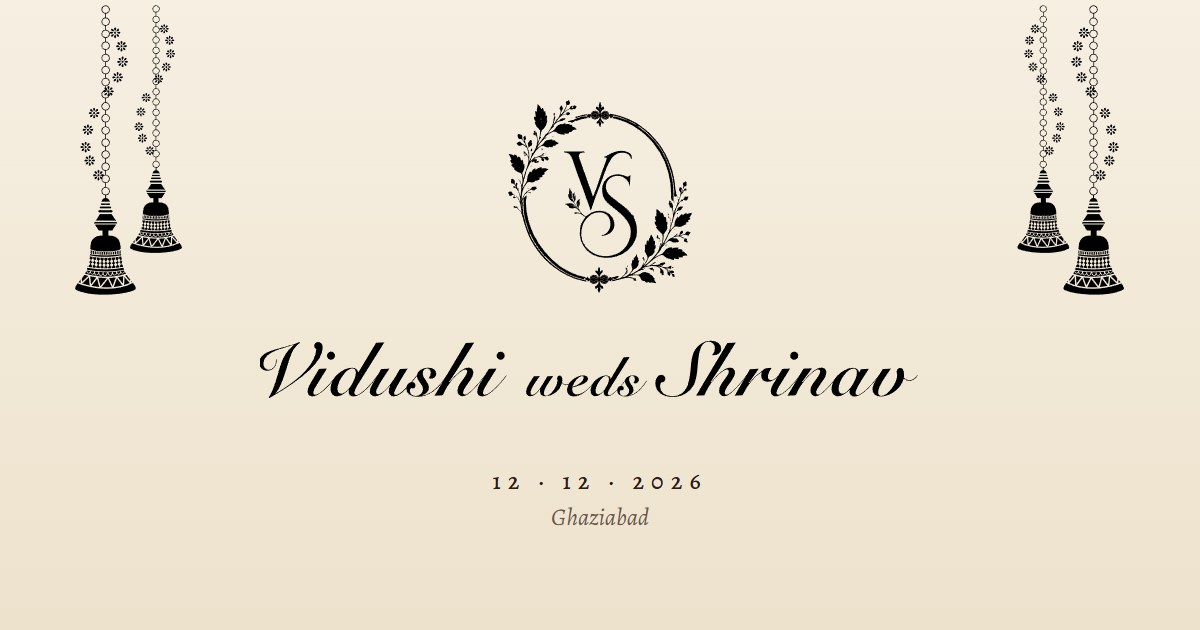
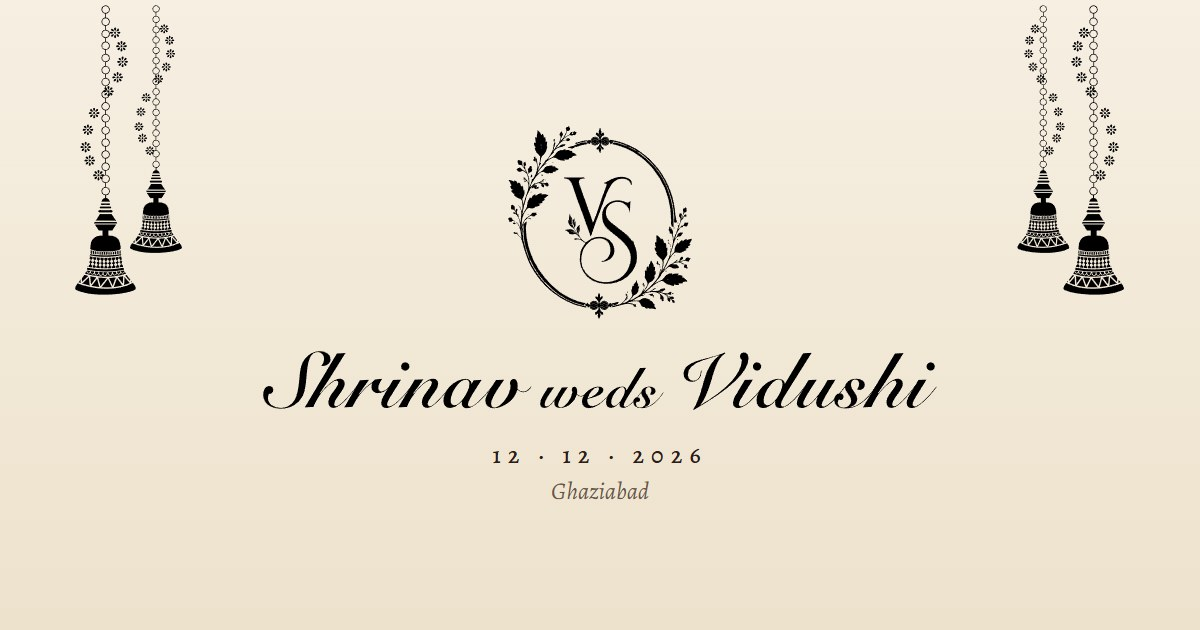
Switch to the groom's side: Rastogi family hosts, Shrinav weds Vidushi

diff --git a/index.html b/index.html
@@ -3,12 +3,12 @@
 <head>
 <meta charset="utf-8">
 <meta name="viewport" content="width=device-width, initial-scale=1, viewport-fit=cover">
-<title>Vidushi weds Shrinav</title>
+<title>Shrinav weds Vidushi</title>
 <meta name="robots" content="noindex, nofollow">
 <meta name="description" content="Saturday, 12th December 2026 · 8 pm onwards · Royal Heritage, Country Inn & Suites, Ghaziabad">
 <meta name="theme-color" content="#F6EFE2">
 <meta property="og:type" content="website">
-<meta property="og:title" content="Vidushi weds Shrinav">
+<meta property="og:title" content="Shrinav weds Vidushi">
 <meta property="og:description" content="Saturday, 12th December 2026 · 8 pm onwards · Ghaziabad">
 <meta property="og:image" content="https://rvishcametrue.us/assets/og.jpg">
 <meta property="og:image:width" content="1200">
@@ -64,8 +64,8 @@
     <div class="bell bell-r"><div class="bell-art"></div></div>
     <div class="hero-inner">
       <div class="art draw monogram" data-svg="monogram"></div>
-      <h1 class="sr-only">Vidushi weds Shrinav</h1>
-      <div class="art draw names" data-svg="names-script" aria-hidden="true"></div>
+      <h1 class="sr-only">Shrinav weds Vidushi</h1>
+      <div class="art draw names" data-svg="names-script-groom" aria-hidden="true"></div>
       <p class="hero-event" data-bind="title" hidden></p>
       <p class="hero-date" id="hero-date"></p>
       <p class="hero-place" data-bind="heroPlace"></p>
@@ -92,19 +92,19 @@
       <div class="frame-copy">
         <p class="hosts" data-reveal data-bind="hosts"></p>
         <p class="req" data-reveal data-bind="request"></p>
-        <h2 class="name" data-split data-bind="brideName"></h2>
-        <p class="parent" data-reveal data-bind="brideParents"></p>
+        <h2 class="name" data-split data-bind="firstName"></h2>
+        <p class="parent" data-reveal data-bind="firstParents"></p>
         <p class="with" data-reveal>with</p>
-        <h2 class="name" data-split data-bind="groomName"></h2>
-        <p class="parent" data-reveal data-bind="groomParents"></p>
+        <h2 class="name" data-split data-bind="secondName"></h2>
+        <p class="parent" data-reveal data-bind="secondParents"></p>
       </div>
     </div>
   </section>
 
   <section class="couple" id="couple">
     <figure class="portrait">
-      <div class="arch"><img id="couple-photo" alt="Vidushi and Shrinav" decoding="async"></div>
-      <figcaption><span class="who">Vidushi <i>&amp;</i> Shrinav</span></figcaption>
+      <div class="arch"><img id="couple-photo" alt="Shrinav and Vidushi" decoding="async"></div>
+      <figcaption><span class="who">Shrinav <i>&amp;</i> Vidushi</span></figcaption>
     </figure>
   </section>
 

diff --git a/events.js b/events.js
@@ -1,14 +1,15 @@
 /* One entry per invitation page. The key is the URL path: "wedding" is "/", others are "/haldi" etc.
    Pages never link to each other, so a guest only sees the events their link was sent for.
-   An event with live: false only renders on the local preview server; vercel.json must also
-   list a rewrite for the slug before it is reachable on the domain. */
+   An event with live: false only renders on the local preview server. After making one live,
+   run `python tools/build_pages.py` so its link preview shows the right title. */
 window.WEDDING = {
   supabaseUrl: "https://ddpubhkgcbcwncyeebzc.supabase.co",
   supabaseKey: "sb_publishable_Am-lHqCMq1ANCtyzlQidXg_9QJuhbNm",
-  hosts: "Smt. Daisy & Sh. Shiva Prakash Vatsa",
-  bride: { name: "Vidushi Vatsa", parents: "D/o Rachna & Supriyam Vatsa" },
-  groom: { name: "Shrinav Rastogi", parents: "S/o Richa & Naveen Rastogi" },
-  family: "Vatsa Family",
+  // Groom's side (Rastogi family). The groom's parents host, so his "S/o" line is left out.
+  hosts: "Smt. Richa & Sh. Naveen Rastogi",
+  first: { name: "Shrinav Rastogi", parents: "" },
+  second: { name: "Vidushi Vatsa", parents: "D/o Rachna & Supriyam Vatsa" },
+  family: "Rastogi Family",
   music: "/assets/audio/theme.mp3",
   couplePhoto: "/assets/photos/couple.jpg",
   moments: ["/assets/photos/moment-1.jpg", "/assets/photos/moment-2.jpg", "/assets/photos/moment-3.jpg"],
@@ -19,7 +20,7 @@ window.EVENTS = {
     live: true,
     title: "Wedding Ceremony",
     titleArt: "wedding-ceremony", // the card's own Edwardian Script lettering
-    request: "request your gracious presence on the auspicious occasion of the wedding of their beloved granddaughter",
+    request: "request your gracious presence on the auspicious occasion of the wedding of their beloved son",
     start: "2026-12-12T20:00:00+05:30",
     end: "2026-12-13T02:00:00+05:30",
     dateLine: "Saturday, 12th December 2026",
@@ -35,7 +36,7 @@ window.EVENTS = {
   haldi: {
     live: false,
     title: "Haldi Ceremony",
-    request: "request the pleasure of your company at the Haldi ceremony of their beloved granddaughter",
+    request: "request the pleasure of your company at the Haldi ceremony of their beloved son",
     start: null,
     end: null,
     dateLine: "Date to be announced",
@@ -51,7 +52,7 @@ window.EVENTS = {
   mehndi: {
     live: false,
     title: "Mehndi Ceremony",
-    request: "request the pleasure of your company at the Mehndi ceremony of their beloved granddaughter",
+    request: "request the pleasure of your company at the Mehndi ceremony of their beloved son",
     start: null,
     end: null,
     dateLine: "Date to be announced",

diff --git a/main.js b/main.js
@@ -1,4 +1,4 @@
-/* Vidushi weds Shrinav - motion + behaviour. Content comes from events.js. */
+/* Shrinav weds Vidushi - motion + behaviour. Content comes from events.js. */
 (() => {
   const $ = (s, c = document) => c.querySelector(s);
   const $$ = (s, c = document) => [...c.querySelectorAll(s)];
@@ -16,11 +16,11 @@
   const EVENT_START = ev.start ? new Date(ev.start) : null;
   const EVENT_END = ev.end ? new Date(ev.end) : null;
   root.dataset.theme = ev.theme;
-  if (!isWedding) document.title = `${ev.title} · Vidushi & Shrinav`;
+  if (!isWedding) document.title = `${ev.title} · Shrinav & Vidushi`;
 
   const text = {
     title: ev.title, heroPlace: ev.heroPlace, hosts: W.hosts, request: ev.request,
-    brideName: W.bride.name, brideParents: W.bride.parents, groomName: W.groom.name, groomParents: W.groom.parents,
+    firstName: W.first.name, firstParents: W.first.parents, secondName: W.second.name, secondParents: W.second.parents,
     dateLine: ev.dateLine, timeLine: ev.timeLine, venue: ev.venue, venueLine: ev.venueLine, family: W.family,
   };
   $$("[data-bind]").forEach((el) => {
@@ -298,7 +298,7 @@
   /* ---------- calendar ---------- */
   $("#calendar").addEventListener("click", () => {
     const z = (d) => d.toISOString().replace(/[-:]/g, "").replace(/\.\d{3}/, "");
-    const title = `Vidushi & Shrinav - ${ev.title}`;
+    const title = `Shrinav & Vidushi - ${ev.title}`;
     const where = [ev.venue, ev.venueLine].filter(Boolean).join(", ");
     const details = "With best compliments, " + W.family + ". " + location.origin + location.pathname;
     const apple = /iPad|iPhone|iPod|Macintosh/.test(navigator.userAgent) && "ontouchend" in document;

diff --git a/guests.html b/guests.html
@@ -3,7 +3,7 @@
 <head>
 <meta charset="utf-8">
 <meta name="viewport" content="width=device-width, initial-scale=1">
-<title>Replies · Vidushi & Shrinav</title>
+<title>Replies · Shrinav & Vidushi</title>
 <meta name="robots" content="noindex, nofollow">
 <link rel="icon" href="/assets/art/monogram.svg" type="image/svg+xml">
 <link href="https://fonts.googleapis.com/css2?family=Alegreya:wght@400;500&family=Alegreya+SC:wght@500&family=Pinyon+Script&display=swap" rel="stylesheet">
@@ -44,7 +44,7 @@
 <body>
 <main>
   <h1>Replies</h1>
-  <p class="sub">Vidushi &amp; Shrinav · for the family only</p>
+  <p class="sub">Shrinav &amp; Vidushi · for the family only</p>
 
   <form class="gate" id="gate">
     <label class="caps" for="code">Family passcode</label>

diff --git a/tools/og.html b/tools/og.html
@@ -9,6 +9,6 @@ body{width:1200px;height:630px;background:linear-gradient(180deg,#F6EFE2,#EDE2CC
 .p{font-family:Alegreya;font-style:italic;font-size:24px;color:#6B564A;margin-top:4px}
 </style></head><body>
 <img class="b bl" src="../assets/art/bell-left.svg"><img class="b br" src="../assets/art/bell-right.svg">
-<img class="m" src="../assets/art/monogram.svg"><img class="n" src="../assets/art/names-script.svg">
+<img class="m" src="../assets/art/monogram.svg"><img class="n" src="../assets/art/names-script-groom.svg">
 <div class="d">12 · 12 · 2026</div><div class="p">Ghaziabad</div>
 </body></html>

diff --git a/tools/compose_names.py b/tools/compose_names.py
@@ -1,0 +1,31 @@
+"""Reorder the card's own lettering: the Vatsa card reads "Vidushi weds Shrinav"; the Rastogi
+side reads "Shrinav weds Vidushi". Same glyphs, same gaps, words swapped."""
+import re
+from pathlib import Path
+
+ART = Path(__file__).resolve().parent.parent / "assets" / "art"
+svg = (ART / "names-script.svg").read_text(encoding="utf-8")
+groups = re.findall(r'<g class="w">(.*?)</g>', svg)
+assert len(groups) == 3, "expected Vidushi / weds / Shrinav"
+
+def xs(g):
+    nums = [float(n) for d in re.findall(r' d="([^"]+)"', g) for n in re.findall(r"-?\d+(?:\.\d+)?", d)]
+    return nums[0::2], nums[1::2]
+
+box = []
+for g in groups:
+    x, y = xs(g)
+    box.append((min(x), max(x), min(y), max(y)))
+(v0, v1, *_), (w0, w1, *_), (s0, s1, *_) = box
+gap1, gap2 = w0 - v1, s0 - w1          # Vidushi->weds, weds->Shrinav
+order = [(groups[2], s0, s1), (groups[1], w0, w1), (groups[0], v0, v1)]
+gaps = [gap2, gap1]                      # keep each gap with the small word "weds"
+out, cursor = [], v0
+for i, (g, x0, x1) in enumerate(order):
+    dx = cursor - x0
+    out.append(f'<g class="w" transform="translate({dx:.2f} 0)">{g}</g>')
+    cursor = x1 + dx + (gaps[i] if i < 2 else 0)
+y0 = min(b[2] for b in box) - 2; y1 = max(b[3] for b in box) + 2
+vb = f"{v0 - 2:.2f} {y0:.2f} {cursor - v0 + 4:.2f} {y1 - y0:.2f}"
+(ART / "names-script-groom.svg").write_text(f'<svg xmlns="http://www.w3.org/2000/svg" viewBox="{vb}">{"".join(out)}</svg>', encoding="utf-8")
+print("names-script-groom.svg", vb)

diff --git a/tools/build_pages.py b/tools/build_pages.py
@@ -23,8 +23,8 @@ for slug, ev in events.items():
         continue
     desc = " · ".join(x for x in [ev["dateLine"], ev.get("timeLine"), ev.get("venue")] if x)
     html = index
-    html = re.sub(r"<title>.*?</title>", f"<title>{ev['title']} · Vidushi &amp; Shrinav</title>", html)
-    html = re.sub(r'(<meta property="og:title" content=")[^"]*', rf"\g<1>{ev['title']} · Vidushi &amp; Shrinav", html)
+    html = re.sub(r"<title>.*?</title>", f"<title>{ev['title']} · Shrinav &amp; Vidushi</title>", html)
+    html = re.sub(r'(<meta property="og:title" content=")[^"]*', rf"\g<1>{ev['title']} · Shrinav &amp; Vidushi", html)
     html = re.sub(r'(<meta property="og:description" content=")[^"]*', rf"\g<1>{desc}", html)
     html = re.sub(r'(<meta name="description" content=")[^"]*', rf"\g<1>{desc}", html)
     out.write_text(html, encoding="utf-8")
